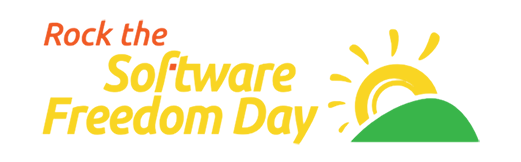
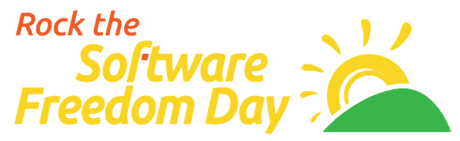
修改header

Changed region(s): [[0.0304, 0.0567, 1.0, 0.9645]]

diff --git a/_layouts/default.html b/_layouts/default.html
@@ -1,6 +1,7 @@
 <!DOCTYPE html>
-<!-- saved from url=(0023)http://purecss.io/base/ -->
-<html lang="en" class="wf-omnespro-n2-active wf-omnespro-n3-active wf-proximanova-n1-active wf-proximanova-n4-active wf-proximanova-n7-active wf-active"><head><meta http-equiv="Content-Type" content="text/html; charset=UTF-8">
+<html lang="zh-cn" class="wf-omnespro-n2-active wf-omnespro-n3-active wf-proximanova-n1-active wf-proximanova-n4-active wf-proximanova-n7-active wf-active">
+	<head>
+	<meta http-equiv="Content-Type" content="text/html; charset=UTF-8">
     <meta charset="utf-8">
     <meta name="viewport" content="width=device-width, initial-scale=1.0">
     <title>{% if page.title %}{{ page.title }} | {% endif %}SFD2013 | QDLUG</title>
@@ -13,7 +14,6 @@
   html {
   background: #7F756B;
   }
-
   body {
   padding: 50px 0;
   margin: 0;
@@ -26,7 +26,6 @@
   background-repeat:no-repeat;
   background-attachment:fixed;
    }
-
   .wrapper {
   width: 800px;
   margin: 0 auto;
@@ -40,7 +39,6 @@
   -moz-box-shadow: rgba(0, 0, 0, 0.2) 0 0 0 1px, rgba(0, 0, 0, 0.45) 0 3px 10px;
   box-shadow: rgba(0, 0, 0, 0.2) 0 0 0 1px, rgba(0, 0, 0, 0.45) 0 3px 10px;
   }
-
   header, section, footer {
   display: block;
   }
@@ -91,8 +89,8 @@
   header p {
   margin: 0;
   color: #EEEEEE;
-  width: 300px;
   font-size: 13px;
+  text-align: center;
   }
   header p.view {
   display: none;
@@ -370,17 +368,16 @@
 </script>
 <style type="text/css"></style></head>
   <body><!-- style="background:#7F756B >-->
-
     <!--___________________________________________Content Start_______________________________________________-->
     <div class="wrapper">
       <header>
 	<div class="pure-g-r">
-	  <div class="pure-u-4-5">
-	      <a href="http://qdlug.github.com/sfd2013/"><img src="/sfd2013/img/banner2013t.png" width="633px" alt="BannerSFD2013"></a>
+	  <div class="pure-u-3-4">
+	      <a href="./"><img src="/sfd2013/img/banner2013t.png" width="534px" alt="SFD2013"></a>
 	  </div>
-	  <div class="pure-u-1-5">
-      <p><br><a href="http://wiki.softwarefreedomday.org/2013/China/Qingdao/CoYouth_Club/Home" class="pure-button pure-button-primary">View On <strong>Wiki</strong></a></p>
-        <p style="font-color:EEEEFF"><br>距离<br>Software Freedom Day<br>　　　2013<br>　　　　还有<big><b><script type="text/javascript">var EDC = new Date("2013/09/21");var now = new Date();document.write(Math.round((EDC-now)/(86400000)))</script></b></big>天. </p>
+	  <div class="pure-u-1-4">
+	  <p>距离<br> <span style="font-size:15px">Software Freedom Day 2013</span><br><span style="font-size:56px;font-weight: bold;"><script type="text/javascript">var EDC = new Date("2013/09/21");var now = new Date();document.write(Math.round((EDC-now)/(86400000)))</script> </span>天.<br>
+     <a href="http://wiki.softwarefreedomday.org/2013/China/Qingdao/CoYouth_Club/Home" class="pure-button pure-button-primary">View On Wiki</a></p>
 	  </div>
 	</div>
       </header>
@@ -410,8 +407,6 @@
       <br><img src="/sfd2013/img/cc.png" width="100%" alt="CoYouth Club logo">
     </footer>
     <!--[if !IE]><script>fixScale(document);</script><![endif]-->
-
-
 <script>
   (function(i,s,o,g,r,a,m){i['GoogleAnalyticsObject']=r;i[r]=i[r]||function(){
   (i[r].q=i[r].q||[]).push(arguments)},i[r].l=1*new Date();a=s.createElement(o),
